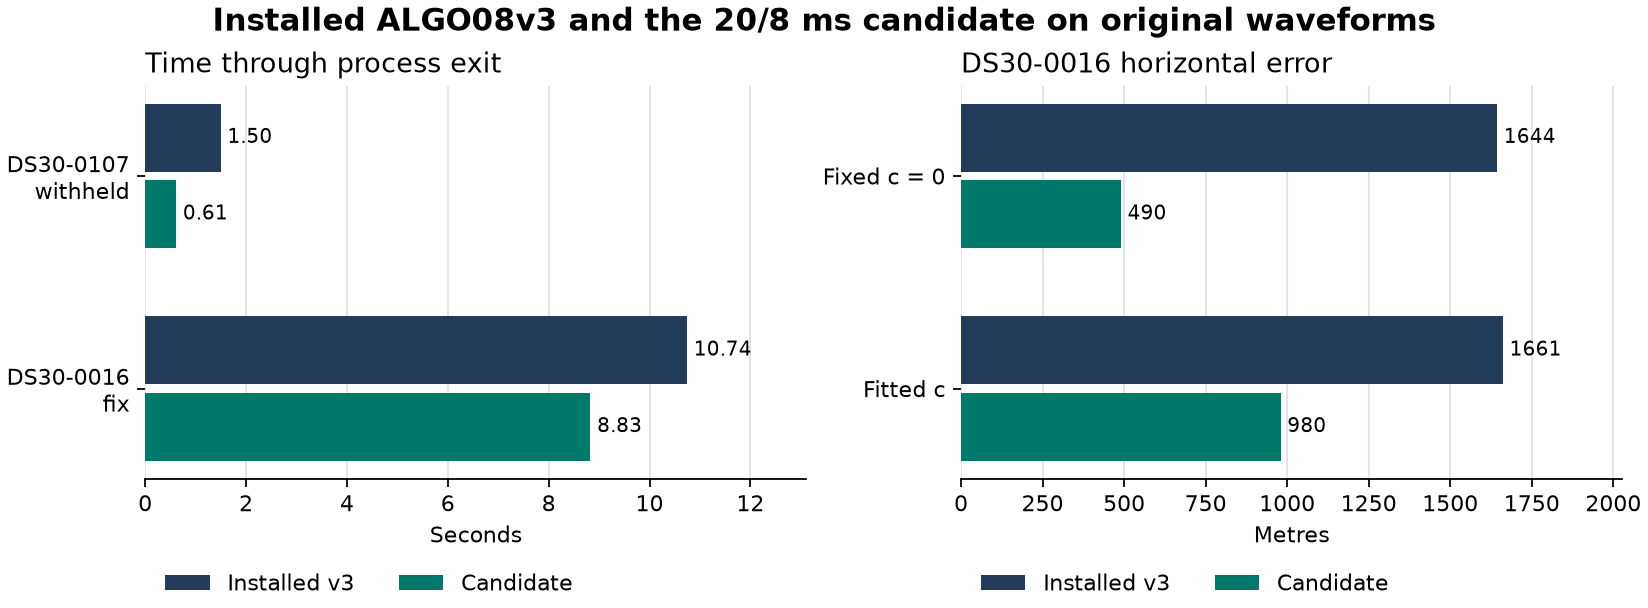
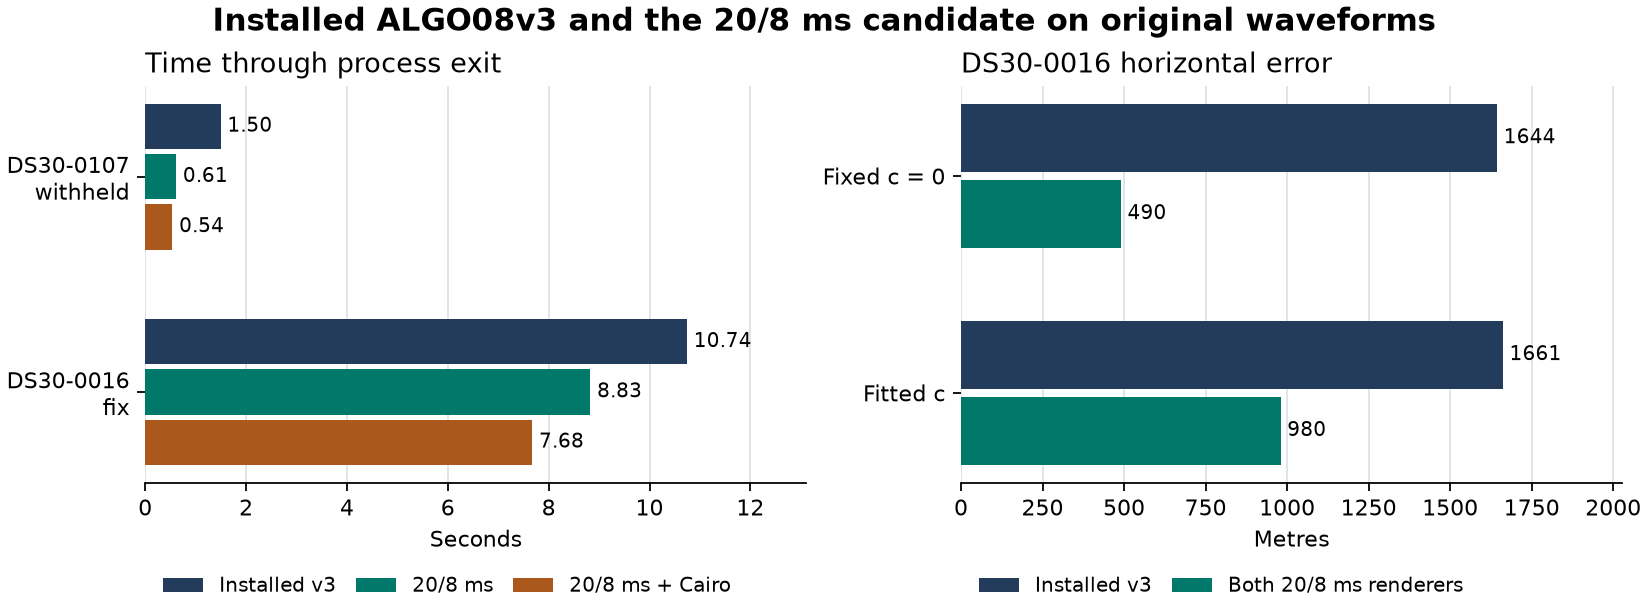
Publish ready and first-use DS30 comparisons with the physical missing-region check

diff --git a/reports/ALGO08/v3/history-risk-physical-cohort.md b/reports/ALGO08/v3/history-risk-physical-cohort.md
@@ -1,5 +1,20 @@
 # Original-waveform timing on two DS30 recordings
 
+**A verified split archive gave the fastest replay.** On the same two recordings, installed ALGO08v3 took **12.242 s** and the 20/8 ms candidate with split storage and Cairo took **7.084 s**, including the candidate's archive checks. The summed speedup was **1.73×**. Preparing both archives from the original files and verifying them brought first use to **12.388 s**, slightly slower than installed v3. Both pipelines fixed one recording and withheld the other. A separate wrong-region test on the fix produced errors above 176 km in both pipelines. These results do not support a release.
+
+![Summed times with original storage, prepared split storage and first-use conversion](development/physical-archive-cost.png)
+
+| 20/8 ms receiver and Cairo publication | DS30-0107 | DS30-0016 | Sum | Median paired speedup | Summed speedup |
+|---|---:|---:|---:|---:|---:|
+| Installed v3 comparator | 1.497 s | 10.745 s | 12.242 s | 1.00× | 1.00× |
+| Original storage | 0.540 s | 7.677 s | 8.217 s | 1.86× | 1.49× |
+| Verified split archive ready | 0.542 s | 6.542 s | 7.084 s | 2.06× | 1.73× |
+| First use, including conversion and verification | 0.861 s | 11.527 s | 12.388 s | 1.21× | 0.99× |
+
+The prepared row includes candidate-specific setup. Charging the candidate for common custody checks as well gives **1.97× median and 1.70× summed**. Including those checks on first use gives **1.18× and 0.98×**. For the total-time 2× target, the two recordings must finish in **6.121 s** combined. The prepared archive still needs **0.963 s** of savings, or **1.072 s** with common checks charged. [Two-case storage comparison](https://github.com/misko/leo-tracker-reduxredux/blob/b1d53a3a81ac07812e275dd065e546150e722488/reports/ALGO08/v3/strict-cairo-0107.md)
+
+### Original storage with the standard renderer
+
 The 20/8 ms receiver and routed solver completed the two enrolled replays in **9.443 s** versus **12.242 s** for installed ALGO08v3. That gives **1.30× by total time** and **1.62× by the reciprocal of the median candidate-to-v3 wall ratio**. The combined time misses the 1.6× release threshold. Both methods returned one position and withheld once. Only one position contributes to the accuracy comparison.
 
 ![Paired times for the two replays and horizontal errors for the single returned position](development/history-risk-physical-raw.png)
@@ -9,7 +24,7 @@ The 20/8 ms receiver and routed solver completed the two enrolled replays in **9
 | DS30-0107 | 1.497 / 1.496 s | 0.615 / 0.611 s | 2.43× | Withheld for insufficient curvature |
 | DS30-0016 | 10.745 / 10.742 s | 8.829 / 8.824 s | 1.22× | Fix with eight PNGs |
 
-The two recordings were enrolled by known outcome before the positive replay. Each pair used the same original waveform files, input opportunities, supplied region, and causal catalogue on Gauss. The candidate ran first, then installed v3, on the same single core at low priority with numerical libraries limited to one thread. Clocks cover process entry through exit, including decoding, native detection, both fits when applicable, and publication. The files were resident. Offline admission took 0.108 s for DS30-0107 and 0.100 s for DS30-0016. The 0.616 median and 0.771 summed wall ratios exceed the 0.50 target. These two selected recordings share a roof. They cannot establish other-site performance or estimate a DS30-wide fix rate. [Enrollment and scoring code](https://github.com/misko/leo-tracker-reduxredux/blob/a365a6fd5e4b52a5a259eb65cf5082ecc665a75e/reports/ALGO08/v3/history_risk_physical_cohort.py) · [Two-case receipt](https://github.com/misko/leo-tracker-reduxredux/blob/a365a6fd5e4b52a5a259eb65cf5082ecc665a75e/reports/ALGO08/v3/measurements/history-risk-physical-cohort.json.gz)
+The two recordings were enrolled by known outcome before the positive replay. Each pair used the same original waveform files, input opportunities, supplied region, and causal catalogue on Gauss. The candidate ran first, then installed v3, on the same single core at low priority with numerical libraries limited to one thread. Clocks cover process entry through exit, including decoding, native detection, both fits when applicable, and publication. The files were resident. Offline admission took 0.108 s for DS30-0107 and 0.100 s for DS30-0016. The 0.616 median and 0.771 summed wall ratios exceed the 0.50 target. These two selected recordings share a roof. They cannot establish other-site performance or estimate a DS30-wide fix rate. [Enrollment and scoring code](https://github.com/misko/leo-tracker-reduxredux/blob/b1d53a3a81ac07812e275dd065e546150e722488/reports/ALGO08/v3/history_risk_physical_cohort.py) · [Two-case receipt](https://github.com/misko/leo-tracker-reduxredux/blob/b1d53a3a81ac07812e275dd065e546150e722488/reports/ALGO08/v3/measurements/history-risk-physical-cohort.json.gz)
 
 ### Position and frequency on the recording that fixed
 
@@ -18,12 +33,21 @@ The two recordings were enrolled by known outcome before the positive replay. Ea
 | Fixed `c = 0` | 1,643.7 m | 490.1 m | 109.38 Hz | 134.02 Hz |
 | Fitted `c` | 1,661.4 m | 980.0 m | 109.48 Hz | 133.74 Hz |
 
-Errors use the operator's station reference. Both calibration arms use the same observations, candidates and budgets within each pipeline. The receiver change alters the observations between pipelines. Each candidate fit retained 115 assignments versus 109 for v3, with 104 in common. Shared assignments kept their satellite family and role. Candidate errors improved in both arms while their conditional frequency residuals increased. Each build reproduced its own sealed scientific outputs and eight reference PNGs. [Positive replay and figure checks](https://github.com/misko/leo-tracker-reduxredux/blob/a365a6fd5e4b52a5a259eb65cf5082ecc665a75e/reports/ALGO08/v3/measurements/history-risk-0016-raw.json.gz) · [Withheld replay](https://github.com/misko/leo-tracker-reduxredux/blob/a365a6fd5e4b52a5a259eb65cf5082ecc665a75e/reports/ALGO08/v3/history-risk-0107-raw.md)
+Errors use the operator's station reference. Both calibration arms use the same observations, candidates and budgets within each pipeline. The receiver change alters the observations between pipelines. Each candidate fit retained 115 assignments versus 109 for v3, with 104 in common. Shared assignments kept their satellite family and role. Candidate errors improved in both arms while their conditional frequency residuals increased. Each build reproduced its own sealed scientific outputs and eight reference PNGs. [Positive replay and figure checks](https://github.com/misko/leo-tracker-reduxredux/blob/b1d53a3a81ac07812e275dd065e546150e722488/reports/ALGO08/v3/measurements/history-risk-0016-raw.json.gz) · [Withheld replay](https://github.com/misko/leo-tracker-reduxredux/blob/b1d53a3a81ac07812e275dd065e546150e722488/reports/ALGO08/v3/history-risk-0107-raw.md)
 
-On DS30-0016 the candidate spent **3.218 s** acquiring detections from the original files and **5.045 s** deciding and publishing. Reaching 2× on that recording would require another **3.456 s** end to end. A previous estimate stitched together separately timed stages and predicted 7.511 s. The measured 8.829 s supersedes it. The first raw attempt stopped after 4.795 s because the checkout's scanner and position modules shadowed the installed pair. The corrected replay used the installed modules and retained the frozen adapter bytes. Both builds were timed afresh. [First attempt including failure](https://github.com/misko/leo-tracker-reduxredux/blob/a365a6fd5e4b52a5a259eb65cf5082ecc665a75e/reports/ALGO08/v3/measurements/history-risk-0016-raw-failed.json.gz)
+On DS30-0016 the candidate spent **3.218 s** acquiring detections from the original files and **5.045 s** deciding and publishing. Reaching 2× on that recording would require another **3.456 s** end to end. A previous estimate stitched together separately timed stages and predicted 7.511 s. The measured 8.829 s supersedes it. The first raw attempt stopped after 4.795 s because the checkout's scanner and position modules shadowed the installed pair. The corrected replay used the installed modules and retained the frozen adapter bytes. Both builds were timed afresh. [First attempt including failure](https://github.com/misko/leo-tracker-reduxredux/blob/b1d53a3a81ac07812e275dd065e546150e722488/reports/ALGO08/v3/measurements/history-risk-0016-raw-failed.json.gz)
 
-### Changing the renderer on DS30-0016
+### Changing the renderer
+
+With the Cairo option enabled on **both** recordings, the candidate took **8.217 s** versus **12.242 s** for v3. That is **1.86× at the paired median and 1.49× by total time**. Charging the candidate's separate admission checks gives **1.74× and 1.47×**, respectively. On DS30-0107 the candidate withheld both arms in **0.540 s** before entering a renderer. The 0.074 s difference between the two candidate clocks on this recording therefore cannot be attributed to drawing PNGs. [Cairo pair, controls and clocks](https://github.com/misko/leo-tracker-reduxredux/blob/b1d53a3a81ac07812e275dd065e546150e722488/reports/ALGO08/v3/history-risk-0107-cairo.md)
 
 The same candidate with Cairo rendering finished in **7.677 s wall / 7.659 s CPU**, saving **1.152 s** against the ordinary candidate and reaching **1.40×** against the same 10.745 s v3 comparator. It ran after the ordinary pair on the same original input and single core. Separate offline admission cost 0.036 s. Its decision and publication stage fell from 5.045 to 3.844 s. It still needs **0.961 s** to reach 1.6× on this fix, or **2.304 s** to reach 2×.
 
-The renderer preserved both coordinates, frequency fits, all 115 assignments per arm and the grid and path values. Four orbit sheets and two residual sheets used Cairo. The position and track sheets used the revised layout. The eight PNGs matched the corresponding saved renderer reference. All eight differ in pixels from the ordinary layout. The saved visual check found differences in residual tick labels while preserving plotted values and axis limits. [Full raw renderer score](https://github.com/misko/leo-tracker-reduxredux/blob/a365a6fd5e4b52a5a259eb65cf5082ecc665a75e/reports/ALGO08/v3/measurements/history-risk-0016-cairo-raw.json.gz) · [Saved visual comparison](https://github.com/misko/leo-tracker-reduxredux/blob/a365a6fd5e4b52a5a259eb65cf5082ecc665a75e/reports/ALGO08/v3/history-risk-cairo-physical.md)
+The renderer preserved both coordinates, frequency fits, all 115 assignments per arm and the grid and path values. Four orbit sheets and two residual sheets used Cairo. The position and track sheets used the revised layout. The eight PNGs matched the corresponding saved renderer reference. All eight differ in pixels from the ordinary layout. The saved visual check found differences in residual tick labels while preserving plotted values and axis limits. [Full raw renderer score](https://github.com/misko/leo-tracker-reduxredux/blob/b1d53a3a81ac07812e275dd065e546150e722488/reports/ALGO08/v3/measurements/history-risk-0016-cairo-raw.json.gz) · [Saved visual comparison](https://github.com/misko/leo-tracker-reduxredux/blob/b1d53a3a81ac07812e275dd065e546150e722488/reports/ALGO08/v3/history-risk-cairo-physical.md)
+
+### Splitting the stored waveform
+
+The split format lets the short receiver read only the samples it consumes. On DS30-0016 it cut acquisition from **3.188 s to 2.156 s**. The complete run, including candidate-specific setup, took **6.542 s (1.64×)** with a verified split archive ready. Starting with the ordinary recording, conversion and independent readback took another **4.985 s**, bringing first use to **11.527 s (0.93×)**. All 506 detection factors, both positions, both frequency fits, the numerical grid and path, and all eight Cairo PNGs matched the original-format candidate. At this recording's measured 1.134 s saving per ready replay over original-format Cairo, conversion pays back on the fifth analysis. [Physical storage comparison and measured costs](https://github.com/misko/leo-tracker-reduxredux/blob/b1d53a3a81ac07812e275dd065e546150e722488/reports/ALGO08/v3/strict-cairo-0016.md)
+### When the correct region is missing
+
+Holding the DS30-0016 detections fixed and shifting the supplied 25 km region two degrees east made the candidate return a false fix. Horizontal errors were **183.656 km** at fixed calibration and **176.717 km** with fitted calibration. The corresponding installed-v3 control also returned false fixes (**179.490 and 183.656 km**). The candidate kept all 115 observations and their roles, but changed every satellite assignment. Its 24 exterior checks allowed publication. The contained-region improvement on this one roof therefore gives little evidence about robustness at unfamiliar sites. This saved-detection control is separate from the two timed raw replays. [Controlled omission, assignments and frequencies](https://github.com/misko/leo-tracker-reduxredux/blob/b1d53a3a81ac07812e275dd065e546150e722488/reports/ALGO08/v3/history-risk-0016-omitted.md)

diff --git a/reports/ALGO08/v3/README.md b/reports/ALGO08/v3/README.md
@@ -16,7 +16,7 @@ The receiver verifies all fractional scores, uses both scans and reads compresse
 
 ### Work toward another 2× on one core
 
-On two enrolled **original DS30 recordings**, the 20/8 ms candidate and installed ALGO08v3 each fixed DS30-0016 and withheld DS30-0107. Total wall time fell from **12.242 s to 9.443 s (1.30×)**. DS30-0016 took **8.829 s**, or **7.677 s with the faster renderer**, versus **10.745 s** for v3. Its horizontal error fell from 1,644 to 490 m with fixed calibration and from 1,661 to 980 m with fitted calibration. Conditional RF error rose in both arms. The saved-solver speedup below applies to a different timing boundary. [End-to-end times, position errors, plot and receipts](history-risk-physical-cohort.md)
+On two enrolled physical DS30 recordings, installed ALGO08v3 took **12.242 s**. The 20/8 ms candidate with Cairo took **8.217 s on original files (1.49×)** and **7.084 s with a verified split archive ready (1.73×)**. Creating and verifying that archive brought first use to **12.388 s (0.99×)**. Both pipelines fixed DS30-0016 and withheld DS30-0107. On the fix the candidate's horizontal error fell from 1,644 to 490 m with fixed calibration and from 1,661 to 980 m with fitted calibration. Moving the region two degrees east produced false fixes over 176 km in both pipelines. The unreleased candidate still misses the 2× total-time target. [Complete timing comparison, accuracy, regional control and plots](history-risk-physical-cohort.md)
 
 The latest solver comparison covers five physical DS30 recordings with known fixes. From the same saved 20 ms detections through publication, ALGO08v3 took **153.93 s** and the candidate **80.50 s** including its launcher checks. The speedup was **1.47× at the median and 1.91× by total time**. On the fifth recording, DS30-0169, runtime fell from 17.89 to 12.48 s and all 2,236 assignments per arm, both positions and all eight figures matched exactly. Both methods fixed all five in both calibration arms. The largest increase in horizontal error was **4.2 m**. These recordings all came from one roof and the clocks exclude waveform processing. [Five-recording results](https://github.com/misko/leo-tracker-reduxredux/blob/a86115dac7aad69effe2aa680b952b080bc778f7/reports/ALGO08/v3/history-risk-held-0169.md)
 
